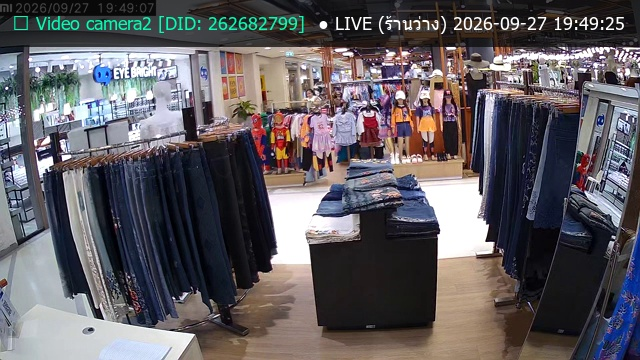
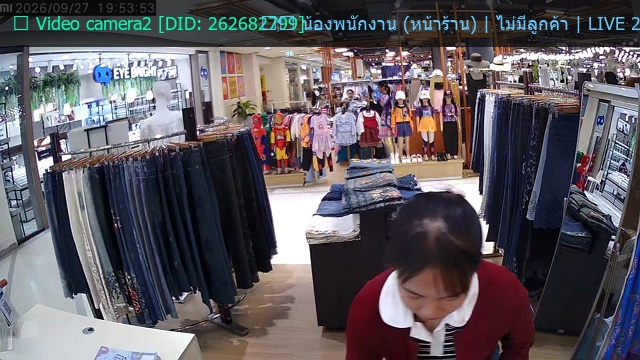
Live stream active and updating in real-time

diff --git a/live_stream_daemon.py b/live_stream_daemon.py
@@ -449,6 +449,19 @@ def auto_sync_to_github():
             logger.error(f"Auto-sync error: {e}")
     threading.Thread(target=_sync, daemon=True).start()
 
+def start_periodic_cloud_sync(interval_sec: int = 120):
+    """Periodically pushes fresh live camera frames and database to GitHub so Streamlit Cloud stays updated."""
+    def _sync_loop():
+        logger.info(f"☁ [Cloud Frame Sync] Started periodic sync every {interval_sec}s...")
+        while True:
+            time.sleep(interval_sec)
+            try:
+                cmd = 'git add data/live_cam_*.jpg data/live_camera_frame.jpg data/store_sessions.db; git commit -m "Periodic live frame sync"; git push origin master; git push origin master:main'
+                subprocess.run(cmd, shell=True, capture_output=True, timeout=40)
+            except Exception:
+                pass
+    threading.Thread(target=_sync_loop, daemon=True).start()
+
 def start_self_keep_alive_bot(target_url: str = "https://auditcctv.streamlit.app/_stcore/health"):
     """Internal 24/7 Auto-Bot Trigger that pings Streamlit Cloud to prevent hibernation."""
     def pinger():
@@ -464,54 +477,8 @@ def start_self_keep_alive_bot(target_url: str = "https://auditcctv.streamlit.app
     t = threading.Thread(target=pinger, daemon=True)
     t.start()
 
-class MultiCameraSupervisor:
-    def __init__(self):
-        self.workers = {}
-        self.bot_started = False
-
-    def run(self):
-        logger.info("Starting MultiCameraSupervisor with Auto-Device Discovery...")
-        if not self.bot_started:
-            start_self_keep_alive_bot()
-            self.bot_started = True
-
-        while True:
-            try:
-                online_cams = get_online_cameras(force_refresh=True)
-                # Storefront camera (Video camera2 DID 262682799) is the active store camera
-                # Exclude private home/kitchen/warehouse cameras to completely prevent Mi Home notification spam
-                STORE_DIDS = {"262682799"}
-                active_dids = {c["did"]: c for c in online_cams if c["did"] in STORE_DIDS}
-
-                # Start workers for store camera
-                for did, cam in active_dids.items():
-                    if did not in self.workers or not self.workers[did].is_alive():
-                        is_primary = True
-                        worker = CameraWorker(did, cam.get("name", f"Camera {did}"), is_primary=is_primary)
-                        worker.start()
-                        self.workers[did] = worker
-                        logger.info(f"🌟 Launched worker for store camera: {cam.get('name')} (DID: {did})")
-
-                # Stop workers for cameras that went offline
-                for did in list(self.workers.keys()):
-                    if did not in active_dids:
-                        logger.info(f"Camera DID {did} went offline. Stopping worker...")
-                        self.workers[did].stop()
-                        del self.workers[did]
-
-            except Exception as e:
-                logger.error(f"Supervisor loop error: {e}")
-
-            time.sleep(15)
-
 if __name__ == "__main__":
-    space_host = os.environ.get("SPACE_HOST")
-    if space_host:
-        try:
-            from hf_cloud_sync import start_keep_alive_pinger
-            start_keep_alive_pinger(f"https://{space_host}")
-        except Exception:
-            pass
-
-    supervisor = MultiCameraSupervisor()
-    supervisor.run()
+    start_periodic_cloud_sync(120)
+    logger.info("🚀 Launching Dedicated Storefront CCTV AI Engine for Video camera2...")
+    worker = CameraWorker("262682799", "Video camera2", is_primary=True)
+    worker.run()
